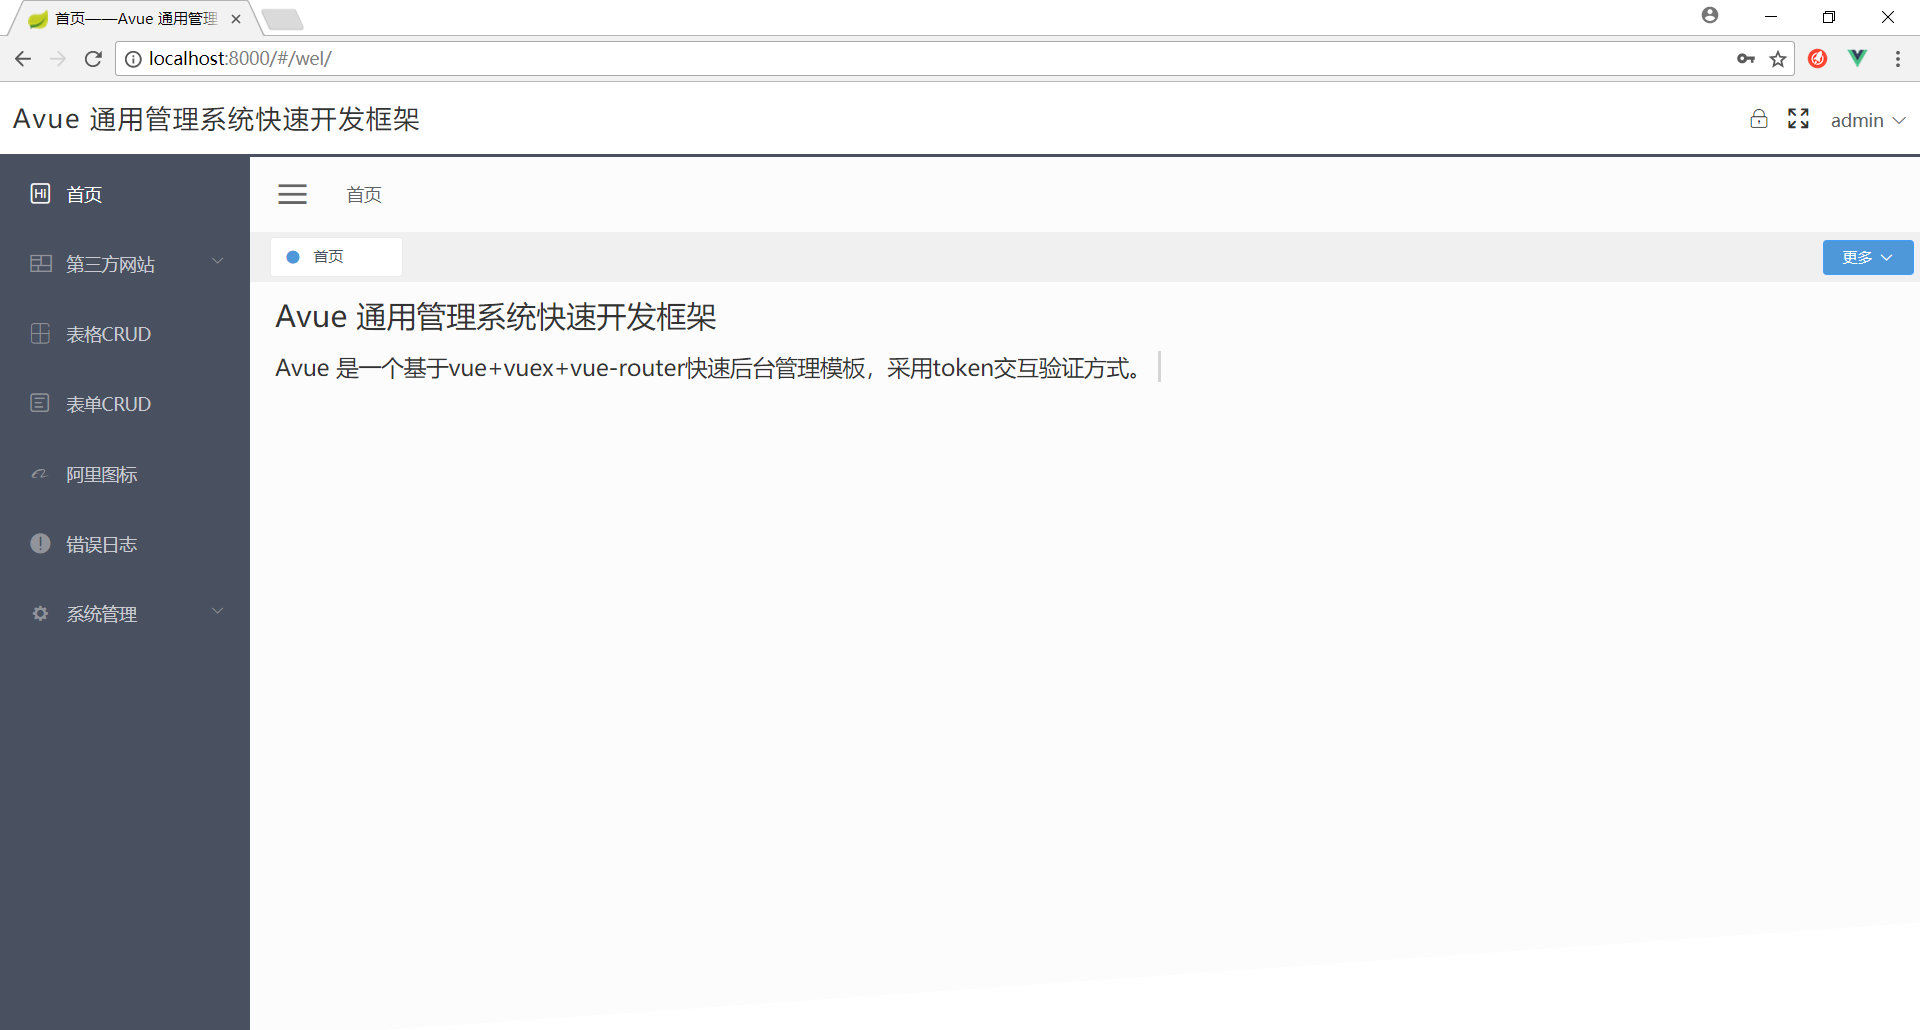
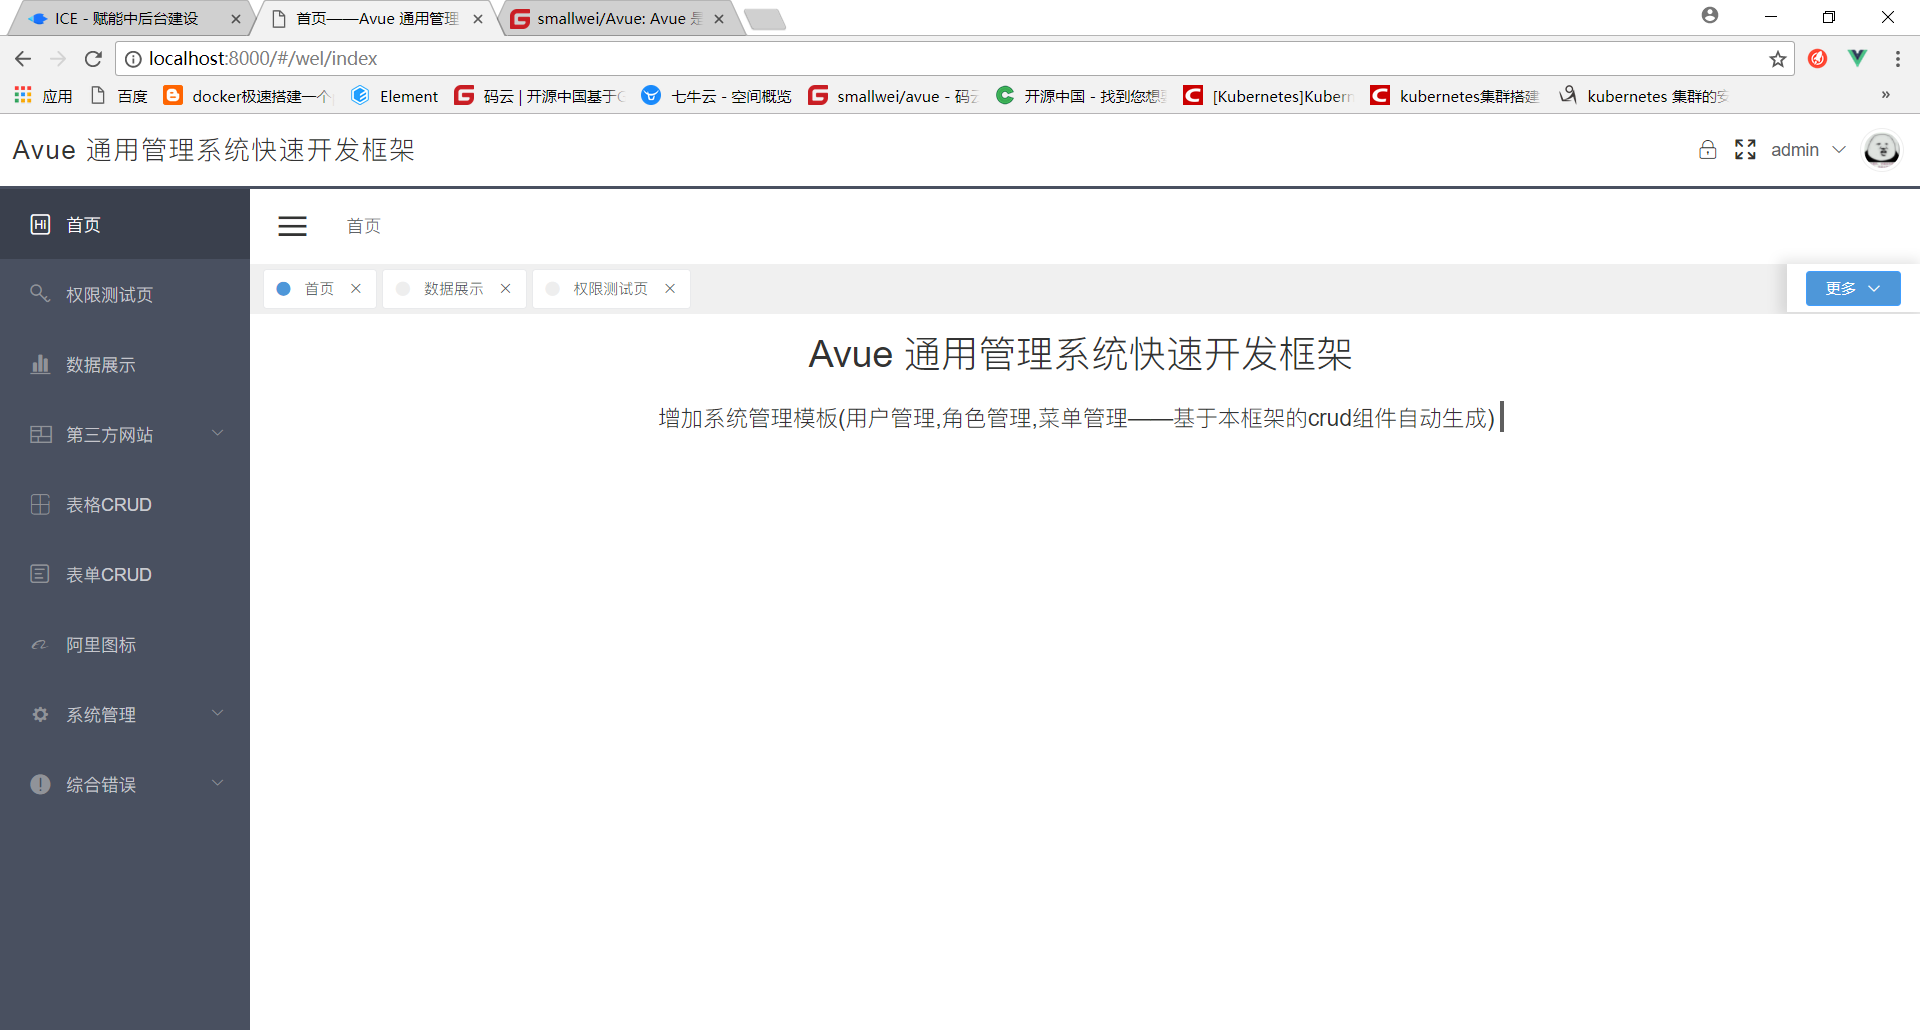
部分优化

diff --git a/src/page/wel.vue b/src/page/wel.vue
@@ -1,23 +1,22 @@
 <template>
-	<div class="app-main">
-		<div class="yun-content">
-			<div class="banner-sky"></div>
+	<div class="pull-chheight wel-contailer">
+      <img :src="BG" alt="" class="banner-img" />
 			<div class="banner-text">
 				<h2>Avue 通用管理系统快速开发框架</h2>
 				<span :class="['actor',{typeing:isText}]">{{text}}</span>
 			</div>
-			
-		</div>
 	</div>
 </template>
 
 <script>
 import DATA from "@/const/wel";
+import BG from "@/assets/img/bg/bg4.jpg";
 export default {
   name: "wel",
   data() {
     return {
       DATA: DATA,
+      BG:BG,
       text: "",
       actor: "",
       count: 0,
@@ -84,27 +83,25 @@ export default {
 </script>
 
 <style scoped="scoped" lang="scss">
-.yun-content {
-  background-color: #eee;
+.wel-contailer{
+  position: relative;
 }
-
-.banner-sky {
-  position: absolute;
-  top: -100px;
-  bottom: -15px;
-  width: 100%;
-  height: 100%;
-  transform: skewY(-4deg);
-  transform-origin: center;
-  background-color: #fcfcfc;
-}
-
 .banner-text {
   position: relative;
   padding: 0 20px;
+  font-size: 20px;
+  text-align: center;
   color: #333;
 }
-
+.banner-img{
+  position: absolute;
+  top:0;
+  left: 0;
+  width: 100%;
+  height: 100%;
+  opacity: 0.8;
+  display: none;
+}
 .actor {
   height: 250px;
   overflow: hidden;

diff --git a/src/const/wel.js b/src/const/wel.js
@@ -1,5 +1,13 @@
 export default [
-	'Avue 是一个基于vue+vuex+vue-router快速后台管理模板，采用token交互验证方式。',
-	'您可以 Avue 为基础，不只限制于vue的页面，你可以嵌入任意第三方网站，基于iframe框架。',
-	'Avue 构建简单上手快，最大程度上帮助企业节省时间成本和费用开支。'
+	'vuex本地持久化存储,封装h5的sessionStorage和localStorage',
+	'加入了本地离线的包引入方法去引入vue，vue-router等第三方包',
+	'支持SSR服务端渲染(express)',
+  '支持阿里巴巴图标库在线调用，自动同步图标',
+  '支持iframe嵌套第三方网站',
+  '支持js动态可配CRUD和FORM,节约大量开发成本，配置字典接口自动匹配字典',
+  '支持多种登录方式,本地验证码校验和服务端验证码校验',
+  '全局错误日志记录',
+  'scss模块化开发',
+  '增加系统管理模板(用户管理,角色管理,菜单管理——基于本框架的crud组件自动生成)',
+  '打包后docker一键部署脚本基于nginx镜像（具体的可以修改./src/docker/Dockerfile）',
 ]

diff --git a/src/styles/common.scss b/src/styles/common.scss
@@ -46,9 +46,8 @@ td {
 }
 
 body {
-	color: #666;
-	font-family: Microsoft YaHei, SimSun;
-	// background: #f6f6f6;
+	color: #333;
+  font-family: "Helvetica Neue",Helvetica,"PingFang SC","Microsoft YaHei";
 	line-height: 2;
 }
 
@@ -81,12 +80,12 @@ textarea {
 
 textarea {
 	resize: none;
-} 
+}
 //禁用了文本的拖拉，尤其在谷歌下
 p {
 	text-align: justify;
 	text-justify: distribute;
-} 
+}
 //为了使文本段落左右两边对齐
 p {
 	word-wrap: break-word

diff --git a/src/components/datashow/index.vue b/src/components/datashow/index.vue
@@ -58,7 +58,7 @@ export default {
     top: 0px;
     padding: 2px 8px;
     border-radius: 4px;
-    font-size: 11px;
+    font-size: 12px;
     background: rgba(255, 255, 255, 0.3);
   }
 }
@@ -76,7 +76,7 @@ export default {
   }
   & > p {
     margin: 0px;
-    font-size: 11px;
+    font-size: 12px;
   }
 }
 .item-tip {

diff --git a/src/components/datashow/easyData.vue b/src/components/datashow/easyData.vue
@@ -59,7 +59,7 @@ export default {
   line-height: 25px;
   & > span {
     color: #999;
-    font-size: 11px;
+    font-size: 12px;
   }
 }
 .item--easy {
